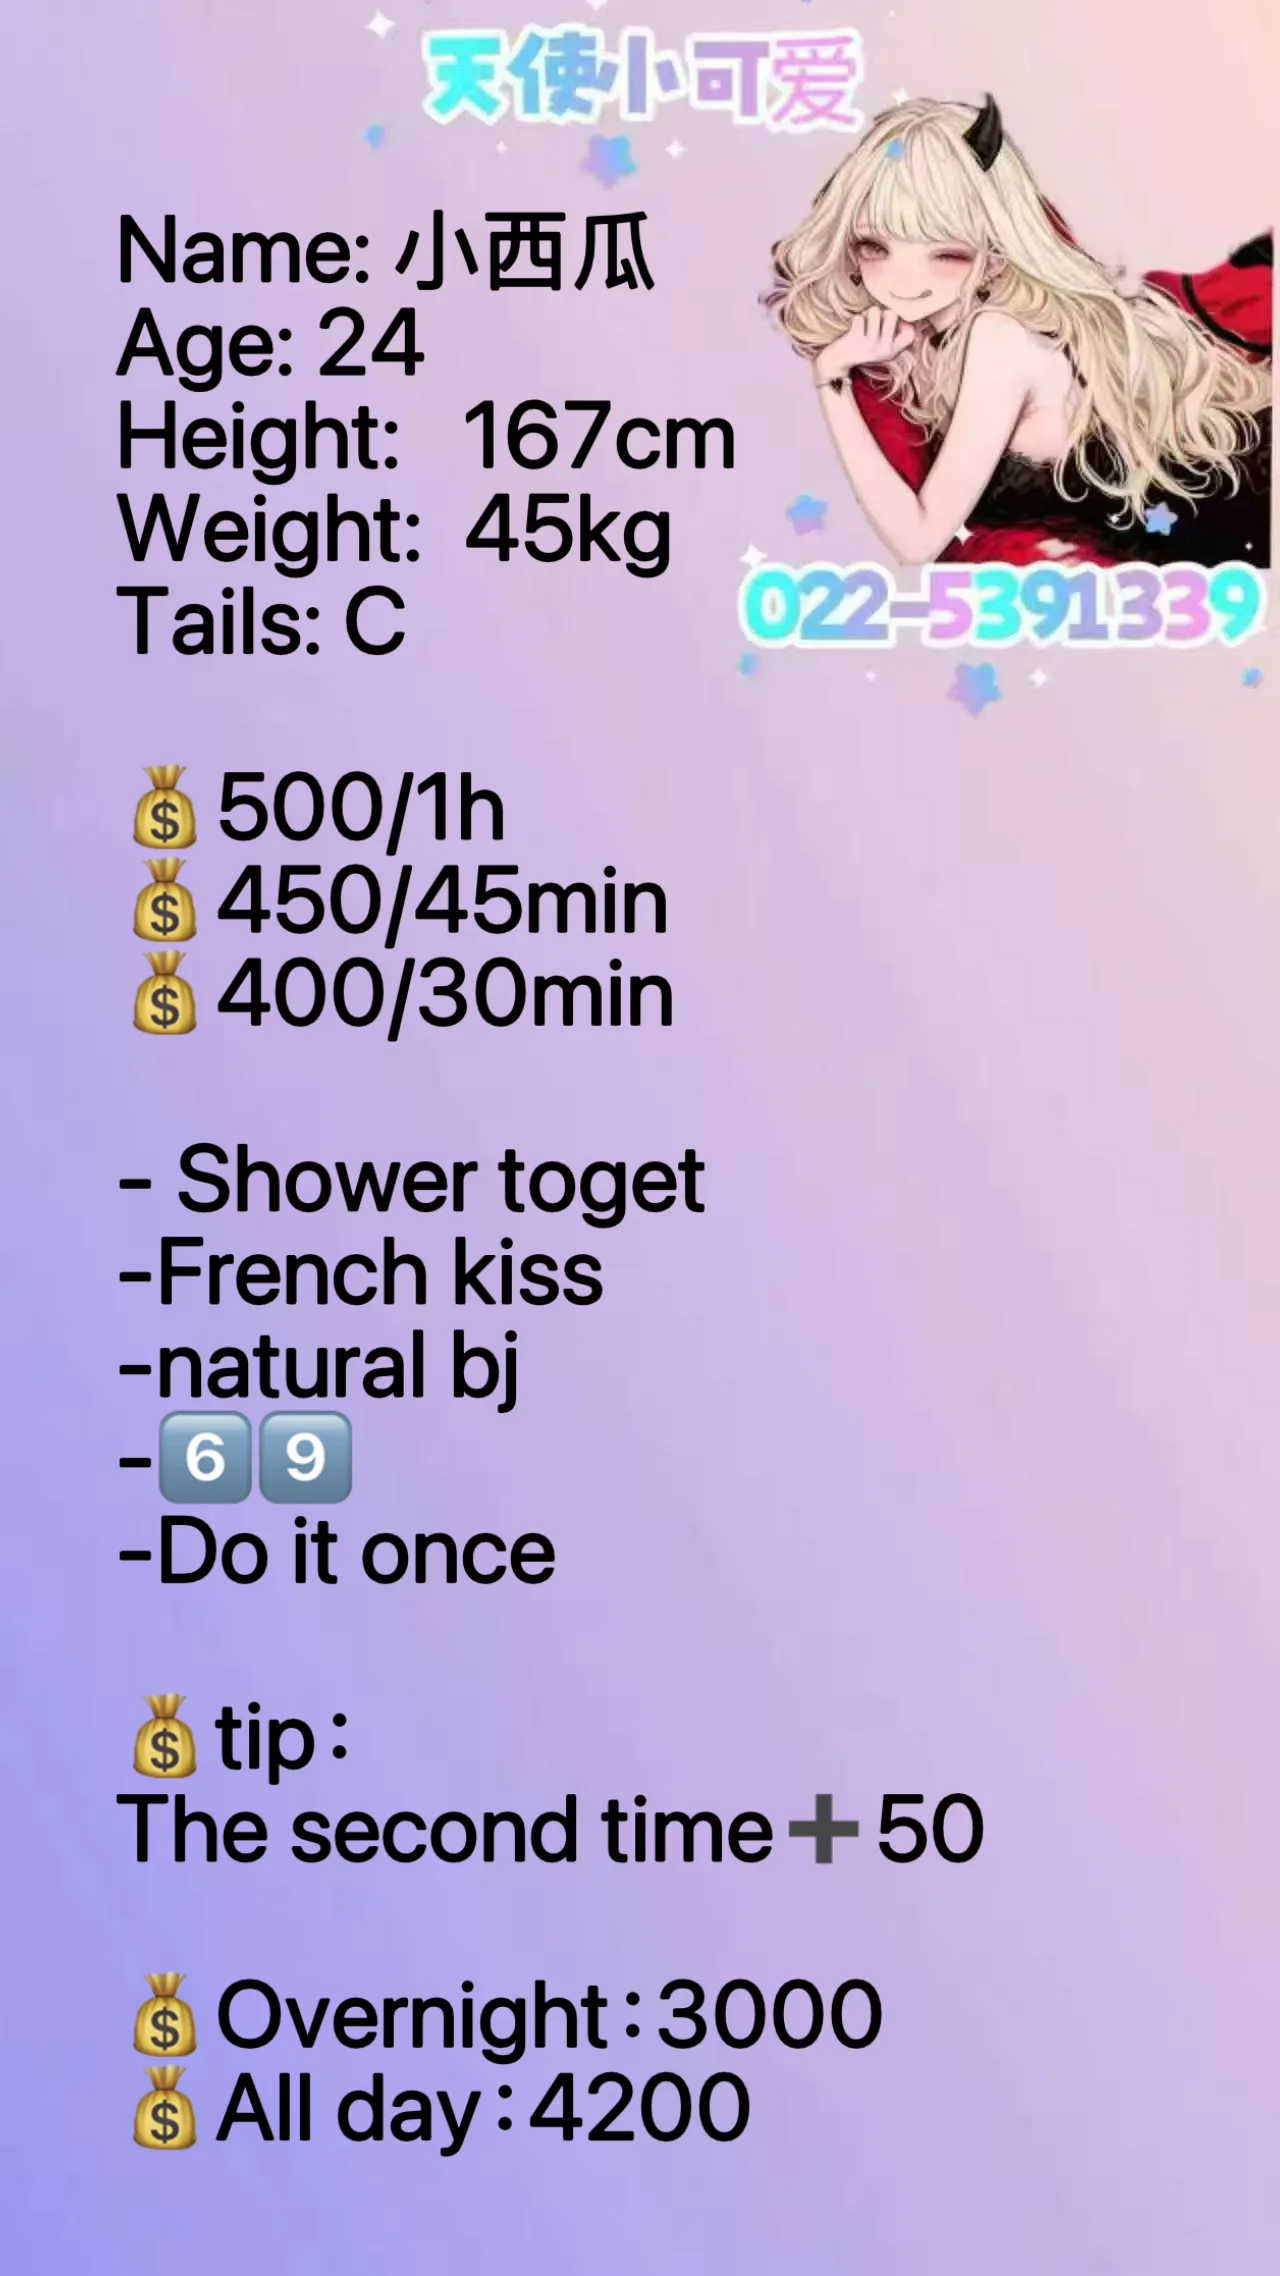
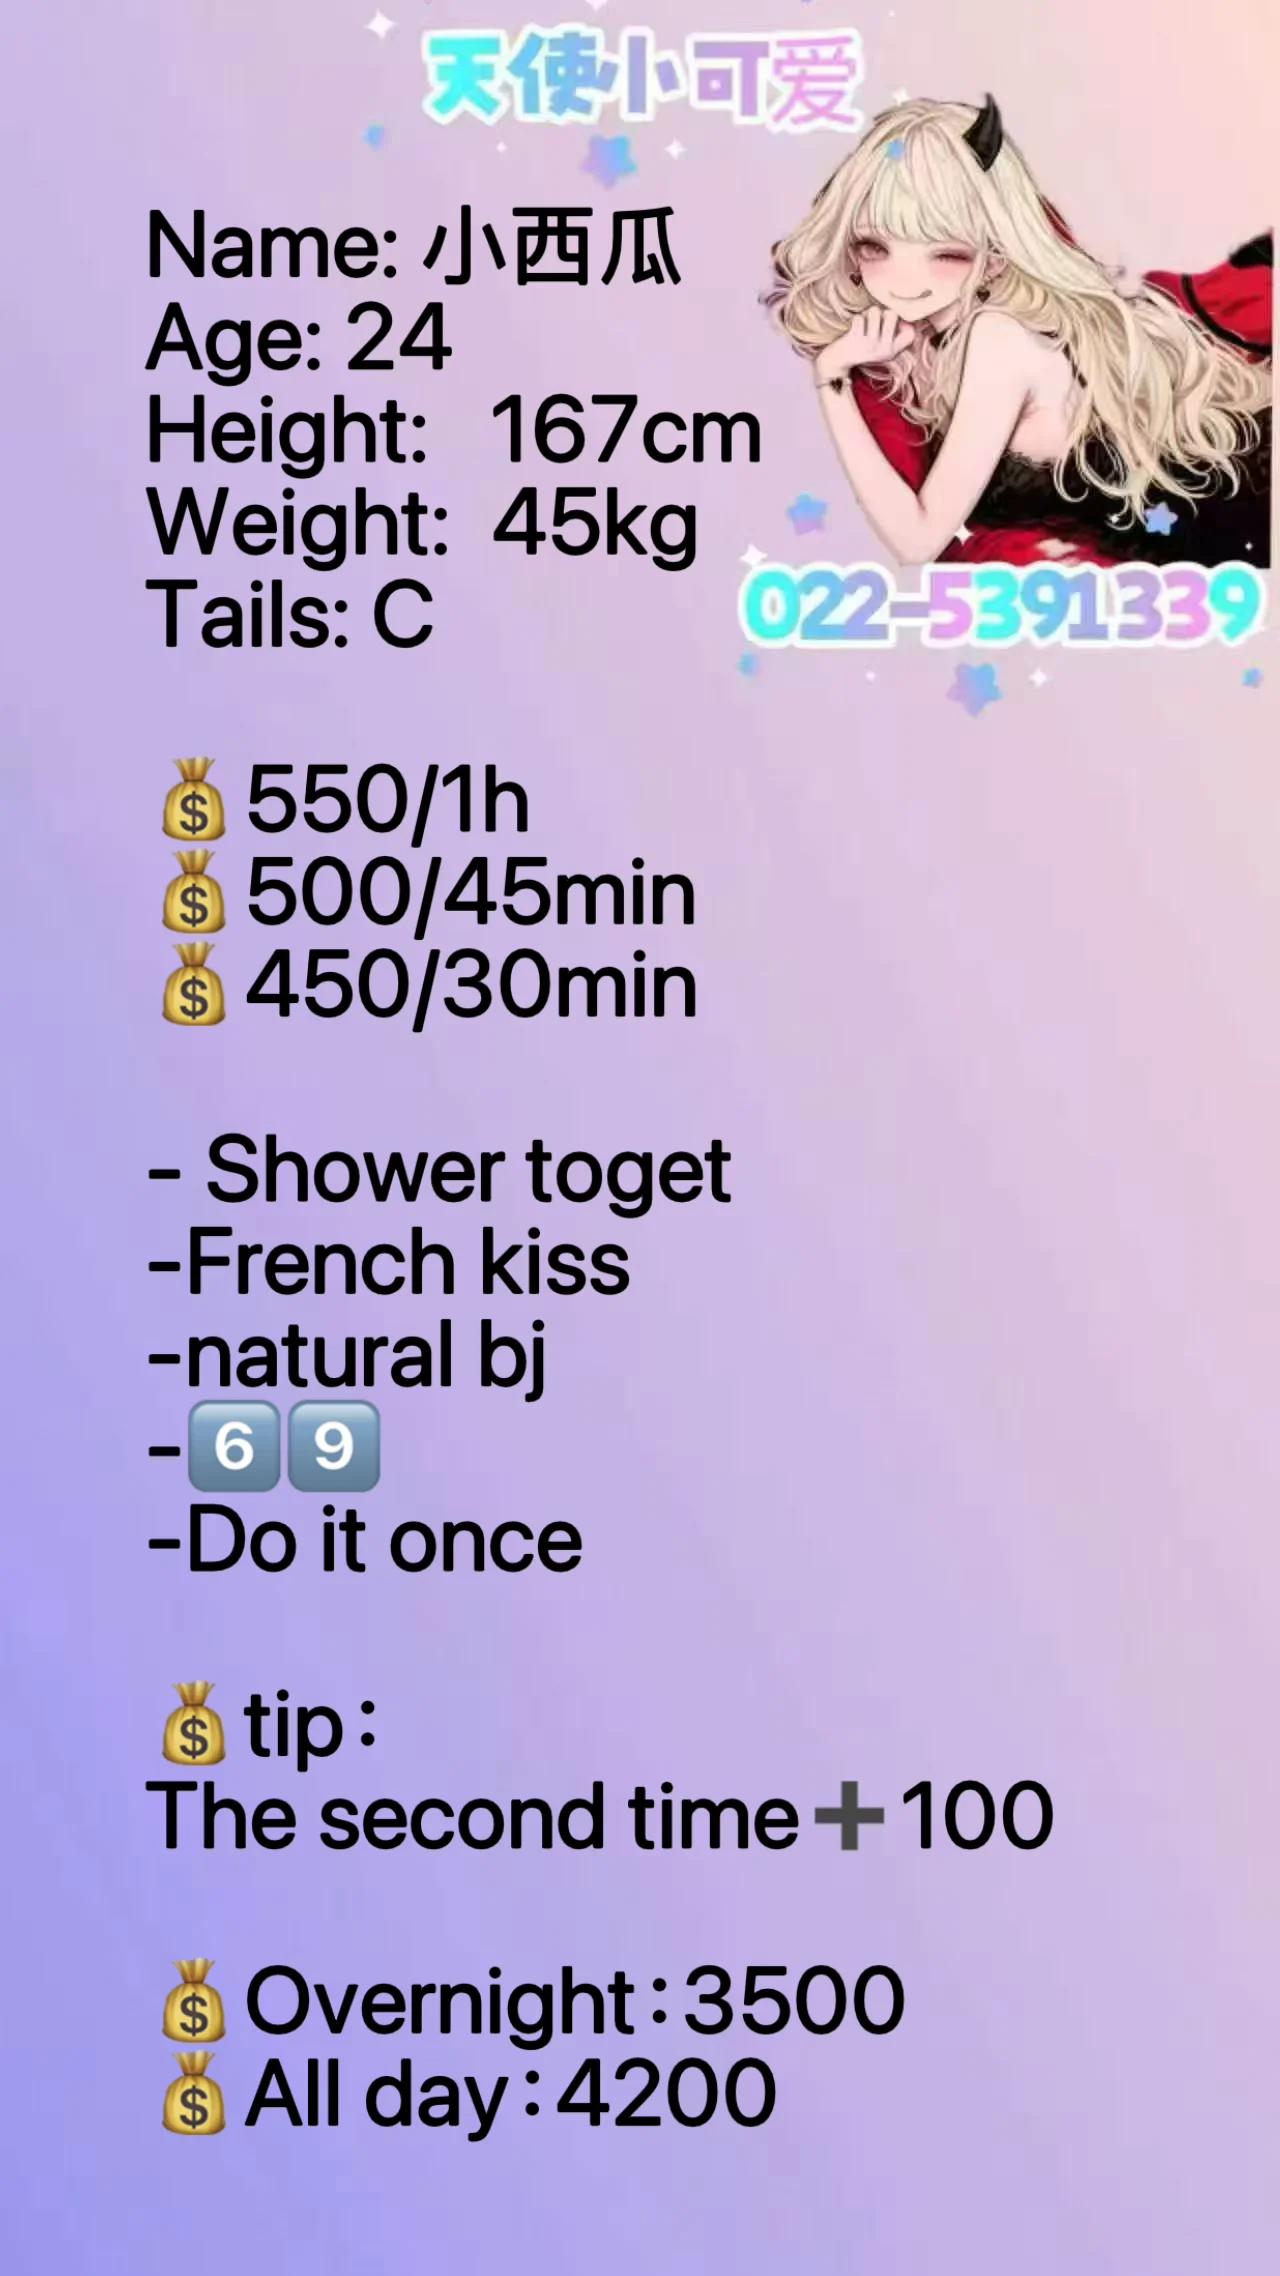
fix: update Xiaoxigua (id: 111) pricing and data cards

Changed region(s): [[0.0938, 0.4991, 0.8438, 0.967], [0.0938, 0.0936, 0.5938, 0.4679]]

diff --git a/src/lib/data.js b/src/lib/data.js
@@ -76,10 +76,10 @@ export const girls = [
     image: "/images/girls/xiaoxigua/cover.webp",
     video: "/images/girls/xiaoxigua/video.mp4",
     description: {
-      en: "Newly arrived from China! Xiaoxigua is a stunning 24-year-old companion featuring model-grade long legs and captivating Northern charm, now available for an exclusive limited short-term stay in Auckland CBD. Standing tall at 167cm and 45kg with a fit, gym-toned silhouette, hourglass curves, and natural C-cup breasts, she boasts snow-white fair skin and sweet, lovely features with a gentle, attentive personality. Highly cooperative and passionate, her standard package ($500/1h · $450/45min · $400/30min) includes shower play together, water BJ, deep French kissing, breast massage, mutual oral (69), natural BJ, stockings, and 1 passionate round. Second round available for +$50. Overnight ($3000) and all-day ($4200) bookings available.",
-      cn: "🆕最新国内空降大长腿甜妹！24岁的小西瓜现已初次抵达奥克兰，在市区 CBD 为您提供短期尊享陪伴。她身高 167cm，体重 45kg，拥有北方姑娘高挑修长的大长腿与健身系前凸后翘的魔鬼身材，纯天然真实 C 罩杯。皮肤雪白粉嫩，五官清秀高级，性格温柔体贴，反差甜美。服务细致、配合度极高。1 小时套餐（$500/1h · $450/45min · $400/30min）包含双人洗浴、水中吹箫、法式深吻、胸推漫游、69互动、无套口吹、黑丝诱惑及 1 次温存互动。加收 $50 可加选第二次温存。另提供包夜（$3000）与包天（$4200）尊享相伴。",
+      en: "Newly arrived from China! Xiaoxigua is a stunning 24-year-old companion featuring model-grade long legs and captivating Northern charm, now available for an exclusive limited short-term stay in Auckland CBD. Standing tall at 167cm and 45kg with a fit, gym-toned silhouette, hourglass curves, and natural C-cup breasts, she boasts snow-white fair skin and sweet, lovely features with a gentle, attentive personality. Highly cooperative and passionate, her standard package ($550/1h · $500/45min · $450/30min) includes shower play together, water BJ, deep French kissing, breast massage, mutual oral (69), natural BJ, stockings, and 1 passionate round. Second round available for +$100. Overnight ($3500) and all-day ($4200) bookings available.",
+      cn: "🆕最新国内空降大长腿甜妹！24岁的小西瓜现已初次抵达奥克兰，在市区 CBD 为您提供短期尊享陪伴。她身高 167cm，体重 45kg，拥有北方姑娘高挑修长的大长腿与健身系前凸后翘的魔鬼身材，纯天然真实 C 罩杯。皮肤雪白粉嫩，五官清秀高级，性格温柔体贴，反差甜美。服务细致、配合度极高。1 小时套餐（$550/1h · $500/45min · $450/30min）包含双人洗浴、水中吹箫、法式深吻、胸推漫游、69互动、无套口吹、黑丝诱惑及 1 次温存互动。加收 $100 可加选第二次温存。另提供包夜（$3500）与包天（$4200）尊享相伴。",
     },
-    price: "$500 / 1h · $450 / 45min · $400 / 30min",
+    price: "$550 / 1h · $500 / 45min · $450 / 30min",
     services: {
       en: [
         "Shower together",
@@ -90,8 +90,8 @@ export const girls = [
         "Mutual oral (69)",
         "Stockings",
         "1 round",
-        "Extra: Second round (+$50)",
-        "Overnight stay: $3000",
+        "Extra: Second round (+$100)",
+        "Overnight stay: $3500",
         "All day: $4200",
       ],
       cn: [
@@ -103,8 +103,8 @@ export const girls = [
         "69互动",
         "性感黑丝",
         "做1次",
-        "额外：第二次 (+$50)",
-        "包夜：$3000",
+        "额外：第二次 (+$100)",
+        "包夜：$3500",
         "包天：$4200",
       ],
     },
